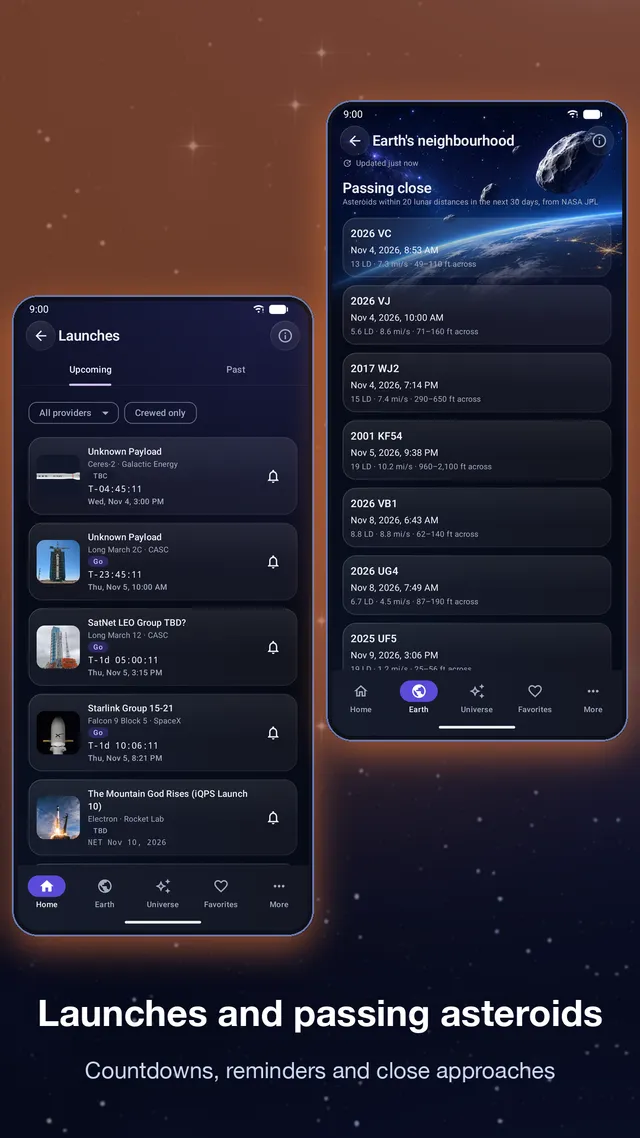
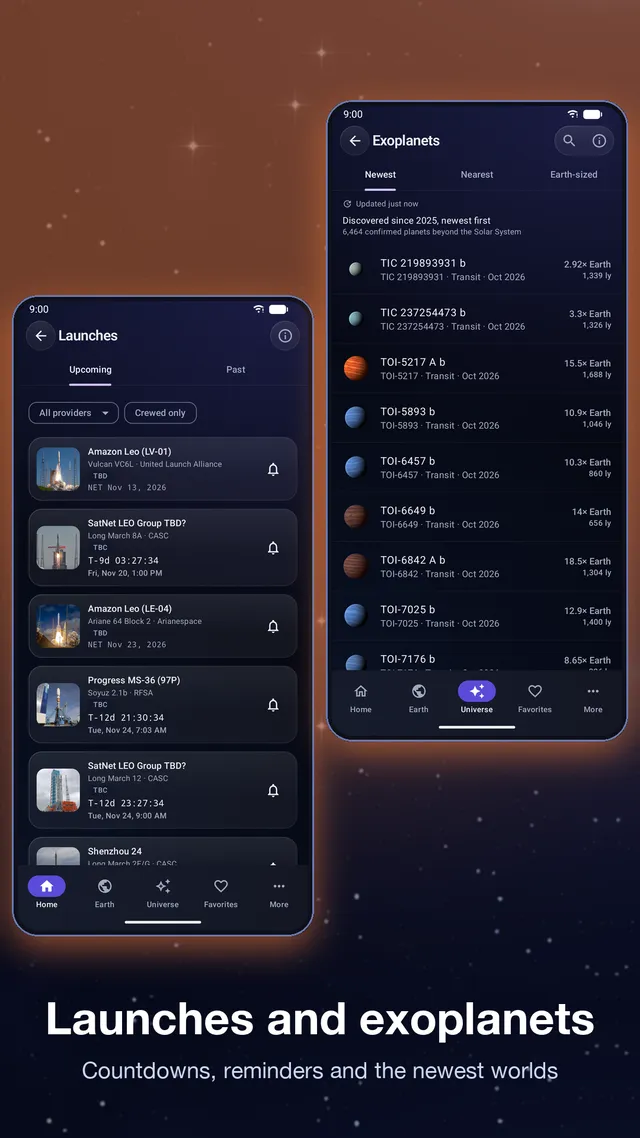
Bring the site up to 1.4: new intro, Live Earth first, release notes 1.3–1.4
The home page opens with the Play listing's new intro, puts the Live Earth
cards right after the sky ones, adds the 1.4 sky map, storm and earthquake
features, and says how ads work now (a few days in, removable in Settings).
Release notes gain 1.3.0, 1.3.1 and 1.4.0, and the launches screenshot pairs
Launches with Exoplanets as on Play.

diff --git a/index.html b/index.html
@@ -3,8 +3,8 @@
 <head>
 <meta charset="utf-8">
 <meta name="viewport" content="width=device-width, initial-scale=1">
-<title>SpaceTerra: Star Map, ISS Tracker &amp; Live Earth for Android</title>
-<meta name="description" content="SpaceTerra is a free Android app: AR star map, ISS tracker, stargazing forecast, rocket launches, aurora forecast and live earthquakes, wildfires and storms on a 3D globe. Works offline.">
+<title>SpaceTerra: AR Sky Map &amp; Live 3D Earth for Android</title>
+<meta name="description" content="SpaceTerra is a free Android app: an advanced AR sky map, a live 3D Earth with earthquakes, wildfires and storms, the aurora, tonight's stargazing forecast, rocket launches, the ISS and exoplanets. Works offline.">
 <link rel="canonical" href="https://radustavila.github.io/SpaceTerra-Web/">
 <meta name="theme-color" content="#070914">
 <meta name="robots" content="index, follow">
@@ -12,8 +12,8 @@
 <meta property="og:type" content="website">
 <meta property="og:site_name" content="SpaceTerra">
 <meta property="og:url" content="https://radustavila.github.io/SpaceTerra-Web/">
-<meta property="og:title" content="SpaceTerra: Star Map, ISS Tracker &amp; Live Earth for Android">
-<meta property="og:description" content="SpaceTerra is a free Android app: AR star map, ISS tracker, stargazing forecast, rocket launches, aurora forecast and live earthquakes, wildfires and storms on a 3D globe. Works offline.">
+<meta property="og:title" content="SpaceTerra: AR Sky Map &amp; Live 3D Earth for Android">
+<meta property="og:description" content="SpaceTerra is a free Android app: an advanced AR sky map, a live 3D Earth with earthquakes, wildfires and storms, the aurora, tonight's stargazing forecast, rocket launches, the ISS and exoplanets. Works offline.">
 <meta property="og:image" content="https://radustavila.github.io/SpaceTerra-Web/assets/img/spaceterra-icon-512.png">
 <meta name="twitter:card" content="summary">
 
@@ -45,15 +45,16 @@
   "name": "SpaceTerra: Star Map & Earth",
   "operatingSystem": "Android 8.0 or later",
   "applicationCategory": "EducationalApplication",
-  "description": "Star map, ISS tracker, stargazing forecast, rocket launches and live Earth events in one offline-first Android app.",
+  "description": "An advanced AR sky map and a live 3D Earth, with stargazing, the aurora, launches, the ISS and exoplanets, in one offline-first Android app.",
   "featureList": [
-    "AR sky map that names stars, planets, constellations, galaxies and nebulae",
+    "AR sky map that names stars, planets, constellations, galaxies and nebulae, at any date",
     "Sky tonight, stargazing forecast and astronomy calendar with reminders",
-    "Live ISS position, visible passes and other satellites",
-    "Astronomy picture of the day with the archive back to 1995",
-    "Rocket launches with countdowns and reminders",
-    "3D Earth globe with live earthquakes, wildfires, storms and volcanoes",
+    "3D Earth globe with live earthquakes, wildfires, tropical cyclones and volcanoes",
+    "Earthquake shaking maps, tsunami bulletins and alerts for quakes and storms near you",
     "Aurora forecast, Kp index and space weather",
+    "Rocket launches with countdowns and reminders",
+    "Live ISS position, visible passes and other satellites",
+    "Exoplanets, astronomy picture of the day and space news",
     "Home screen widgets and a daily space quiz",
     "Works offline"
   ],
@@ -145,13 +146,13 @@
             <span><b>Free on Android</b> · works offline · no account needed</span>
           </span>
 
-          <h1>The night sky and our planet, <em>live</em>, in one app.</h1>
+          <h1>The ultimate sky map. The world, <em>live</em>.</h1>
 
           <p class="lede">
-            SpaceTerra is a star map, an ISS tracker and a live Earth map in one. Point
-            your phone at the sky to name stars, planets and constellations, check
-            tonight’s stargazing forecast, then follow earthquakes, wildfires and storms
-            around the world as they happen.
+            Explore the universe and discover our planet with SpaceTerra, your all-in-one
+            space and Earth companion. Name stars, planets and constellations with an
+            advanced AR sky map, follow earthquakes, wildfires and storms on a live 3D
+            Earth, and see where the aurora is visible tonight.
           </p>
 
           <div class="btn-row">
@@ -200,7 +201,7 @@
               <img src="assets/img/screenshots/earthquakes.webp" width="640" height="1138" alt="Live Earth events list of recent earthquakes, searchable by place" loading="lazy">
             </li>
             <li class="showcase-slide">
-              <img src="assets/img/screenshots/launches.webp" width="640" height="1138" alt="Upcoming rocket launches with countdowns, and asteroids passing Earth" loading="lazy">
+              <img src="assets/img/screenshots/launches.webp" width="640" height="1138" alt="Upcoming rocket launches with countdowns, and the newest exoplanets" loading="lazy">
             </li>
             <li class="showcase-slide">
               <img src="assets/img/screenshots/galleries.webp" width="640" height="1138" alt="Universe galleries of Hubble and Webb galaxies, nebulae and black holes" loading="lazy">
@@ -238,7 +239,7 @@
             <svg width="21" height="21" viewBox="0 0 24 24" fill="none" stroke="currentColor" stroke-width="1.8" stroke-linecap="round" stroke-linejoin="round"><path d="M12 3l2.4 5.6 6.1.5-4.6 4 1.4 6-5.3-3.2-5.3 3.2 1.4-6-4.6-4 6.1-.5z"/></svg>
           </div>
           <h3>AR sky map</h3>
-          <p>Point your phone at the sky to name stars, planets, constellations, galaxies and nebulae, with constellation art and a red night mode that keeps your eyes dark-adapted.</p>
+          <p>Point your phone at the sky to name stars, planets, constellations, galaxies and nebulae. Travel to any date, see Jupiter’s moons, the Milky Way and Starlink, and keep your eyes dark-adapted with red night mode.</p>
         </article>
 
         <article class="card reveal">
@@ -259,10 +260,26 @@
 
         <article class="card reveal">
           <div class="card-icon" aria-hidden="true">
-            <svg width="21" height="21" viewBox="0 0 24 24" fill="none" stroke="currentColor" stroke-width="1.8" stroke-linecap="round" stroke-linejoin="round"><rect x="9" y="9" width="6" height="6" rx="1"/><path d="M3 7.5l4.5 4.5L3 16.5M21 7.5L16.5 12l4.5 4.5M7.5 12H9M15 12h1.5"/></svg>
+            <svg width="21" height="21" viewBox="0 0 24 24" fill="none" stroke="currentColor" stroke-width="1.8" stroke-linecap="round" stroke-linejoin="round"><circle cx="12" cy="12" r="8.5"/><path d="M3.5 12h17M12 3.5c2.4 2.4 3.6 5.2 3.6 8.5s-1.2 6.1-3.6 8.5c-2.4-2.4-3.6-5.2-3.6-8.5s1.2-6.1 3.6-8.5z"/></svg>
           </div>
-          <h3>ISS tracker &amp; satellites</h3>
-          <p>The space station's live position on a map, its visible passes over your place with a reminder before each one, who is in space right now, and passes of other satellites you choose.</p>
+          <h3>Live Earth on a 3D globe</h3>
+          <p>Earthquakes, wildfires, storms and volcanoes as they happen, with day and night shading. Tropical cyclones show their forecast track, live infrared and rain, with an optional alert when a storm heads your way.</p>
+        </article>
+
+        <article class="card reveal">
+          <div class="card-icon" aria-hidden="true">
+            <svg width="21" height="21" viewBox="0 0 24 24" fill="none" stroke="currentColor" stroke-width="1.8" stroke-linecap="round" stroke-linejoin="round"><path d="M2.5 12h4l2-5 3.5 10 2.5-7 1.5 2h5.5"/></svg>
+          </div>
+          <h3>Earthquake map &amp; alerts</h3>
+          <p>Earthquakes over 30 days, coloured by your own rules and searchable by place, with shaking maps, tsunami bulletins, plate boundaries, the quakes near you and an optional alert for strong ones.</p>
+        </article>
+
+        <article class="card reveal">
+          <div class="card-icon" aria-hidden="true">
+            <svg width="21" height="21" viewBox="0 0 24 24" fill="none" stroke="currentColor" stroke-width="1.8" stroke-linecap="round" stroke-linejoin="round"><path d="M3 17c3-5 6-7 9-7s6 2 9 7"/><path d="M5 13c2-4 4.5-6 7-6s5 2 7 6"/><path d="M8 20h8"/></svg>
+          </div>
+          <h3>Aurora &amp; space weather</h3>
+          <p>The aurora forecast for the northern and southern lights, the Kp index, solar flares and CMEs, with an alert when the aurora may be visible from your place.</p>
         </article>
 
         <article class="card reveal">
@@ -275,41 +292,26 @@
 
         <article class="card reveal">
           <div class="card-icon" aria-hidden="true">
+            <svg width="21" height="21" viewBox="0 0 24 24" fill="none" stroke="currentColor" stroke-width="1.8" stroke-linecap="round" stroke-linejoin="round"><rect x="9" y="9" width="6" height="6" rx="1"/><path d="M3 7.5l4.5 4.5L3 16.5M21 7.5L16.5 12l4.5 4.5M7.5 12H9M15 12h1.5"/></svg>
+          </div>
+          <h3>ISS tracker &amp; satellites</h3>
+          <p>The space station's live position on a map, its visible passes over your place with a reminder before each one, who is in space right now, and passes of other satellites you choose.</p>
+        </article>
+
+        <article class="card reveal">
+          <div class="card-icon" aria-hidden="true">
             <svg width="21" height="21" viewBox="0 0 24 24" fill="none" stroke="currentColor" stroke-width="1.8" stroke-linecap="round" stroke-linejoin="round"><rect x="3" y="4" width="18" height="16" rx="2.5"/><circle cx="9" cy="9.5" r="1.8"/><path d="M21 15.5l-5-5-9.5 9.5"/></svg>
           </div>
           <h3>A new picture of the universe every day</h3>
           <p>The astronomy picture of the day with the full archive back to 1995, an optional daily wallpaper, and galleries of Hubble and Webb images.</p>
-        </article>
-
-        <article class="card reveal">
-          <div class="card-icon" aria-hidden="true">
-            <svg width="21" height="21" viewBox="0 0 24 24" fill="none" stroke="currentColor" stroke-width="1.8" stroke-linecap="round" stroke-linejoin="round"><circle cx="12" cy="12" r="8.5"/><path d="M3.5 12h17M12 3.5c2.4 2.4 3.6 5.2 3.6 8.5s-1.2 6.1-3.6 8.5c-2.4-2.4-3.6-5.2-3.6-8.5s1.2-6.1 3.6-8.5z"/></svg>
-          </div>
-          <h3>Live Earth on a 3D globe</h3>
-          <p>Earthquakes, wildfires, storms and volcanoes as they happen, with day and night shading, daily photos of the whole Earth from deep space and a satellite map updated daily.</p>
-        </article>
-
-        <article class="card reveal">
-          <div class="card-icon" aria-hidden="true">
-            <svg width="21" height="21" viewBox="0 0 24 24" fill="none" stroke="currentColor" stroke-width="1.8" stroke-linecap="round" stroke-linejoin="round"><path d="M2.5 12h4l2-5 3.5 10 2.5-7 1.5 2h5.5"/></svg>
-          </div>
-          <h3>Earthquake map &amp; alerts</h3>
-          <p>Earthquakes over 30 days, coloured by your own rules and searchable by place, with an optional alert for strong earthquakes near you.</p>
-        </article>
-
-        <article class="card reveal">
-          <div class="card-icon" aria-hidden="true">
-            <svg width="21" height="21" viewBox="0 0 24 24" fill="none" stroke="currentColor" stroke-width="1.8" stroke-linecap="round" stroke-linejoin="round"><path d="M3 17c3-5 6-7 9-7s6 2 9 7"/><path d="M5 13c2-4 4.5-6 7-6s5 2 7 6"/><path d="M8 20h8"/></svg>
-          </div>
-          <h3>Aurora &amp; space weather</h3>
-          <p>The aurora forecast for the northern and southern lights, the Kp index, solar flares and CMEs, with an alert when the aurora may be visible from your place.</p>
         </article>
       </div>
 
       <div class="extras reveal">
         <strong>Also included</strong>
         <span>11 home screen widgets</span>
-        <span>Daily space quiz</span>
+        <span>Daily space quiz with streaks</span>
+        <span>Earth today &amp; satellite map</span>
         <span>Mars rover photos</span>
         <span>Exoplanets</span>
         <span>Asteroids passing Earth</span>
@@ -404,7 +406,7 @@
         <div class="step reveal">
           <span class="num"></span>
           <h3>Get told when it matters</h3>
-          <p>Optional alerts for clear skies, ISS passes, launches, sky events, the aurora and strong earthquakes near you.</p>
+          <p>Optional alerts for clear skies, ISS passes, launches, sky events, the aurora, and strong earthquakes and storms heading your way.</p>
         </div>
       </div>
     </div>
@@ -518,7 +520,7 @@
         <details>
           <summary>Is SpaceTerra free?</summary>
           <div class="faq-a">
-            <p>Yes. SpaceTerra is free on Google Play. From the third time you open the app, some screens show a banner ad, which funds its development.</p>
+            <p>Yes. SpaceTerra is free on Google Play. Once you have used it for a few days, some screens show a small banner ad, which funds its development. You can remove the ads in Settings with a subscription or a one-time purchase.</p>
           </div>
         </details>
         <details>
@@ -572,7 +574,7 @@
             <svg width="17" height="19" viewBox="0 0 24 27" fill="currentColor" aria-hidden="true"><path d="M1.6.6a2 2 0 00-.6 1.4v22.6a2 2 0 00.6 1.4l11.7-11.7L1.6.6zM15 15.9l3.9 3.9-13.4 7.1a1.9 1.9 0 01-1 .1L15 15.9zM19.9 8.3l3.4 1.8c1 .6 1 2.2 0 2.8l-3.4 1.8-3.6-3.2 3.6-3.2zM4.5.4a1.9 1.9 0 011 .2l13.4 7.1L15 11.4 4.5.4z"/></svg>
             Get SpaceTerra on Google Play
           </a>
-          <a class="btn btn--ghost btn--lg" href="release-notes/">What’s new in 1.2</a>
+          <a class="btn btn--ghost btn--lg" href="release-notes/">What’s new in 1.4</a>
         </div>
       </div>
     </div>

diff --git a/release-notes/index.html b/release-notes/index.html
@@ -115,10 +115,49 @@
 
         <section id="y2026">
           <h2>2026</h2>
+          <article class="release" id="v1-4-0">
+            <h3>
+              <a href="#v1-4-0">Version 1.4.0</a>
+              <span class="release-badge">Latest</span>
+              <time datetime="2026-11-09">November 9, 2026</time>
+            </h3>
+            <ul>
+              <li>Sky map: planets drawn as little worlds you can resize, any date from 1900 to 2100, grids and field-of-view circles, meteor radiants, Jupiter’s moons, the Milky Way, bright satellites and Starlink, fuller object cards, and sharing</li>
+              <li>Compass: line the map up without the camera, with tips to calibrate; the fix is kept for 6 hours</li>
+              <li>Storms: tropical cyclones with forecast tracks, live infrared and rain, and an opt-in storm alert</li>
+              <li>Earthquakes: shaking maps, tsunami bulletins, plate boundaries, quakes near you and list settings</li>
+              <li>More space news sources</li>
+              <li>Tidier sheets on small phones</li>
+              <li>Bug fixes</li>
+            </ul>
+          </article>
+          <article class="release" id="v1-3-1">
+            <h3>
+              <a href="#v1-3-1">Version 1.3.1</a>
+              <time datetime="2026-11-07">November 7, 2026</time>
+            </h3>
+            <ul>
+              <li>Bug fixes and improvements</li>
+            </ul>
+          </article>
+          <article class="release" id="v1-3-0">
+            <h3>
+              <a href="#v1-3-0">Version 1.3.0</a>
+              <time datetime="2026-11-06">November 6, 2026</time>
+            </h3>
+            <ul>
+              <li>Daily quiz: 60 new questions and new kinds of questions from the app’s live data</li>
+              <li>Streak freezes, a calendar of past days and your accuracy by topic</li>
+              <li>Review your answers, practise your mistakes, and explore each subject in the app</li>
+              <li>Share your score as an image; quiz reminder at the time you choose</li>
+              <li>Widgets sized to what they show; Next launch lists the launches after it</li>
+              <li>Small phones: tighter text and spacing</li>
+              <li>Fixes and small improvements</li>
+            </ul>
+          </article>
           <article class="release" id="v1-2-0">
             <h3>
               <a href="#v1-2-0">Version 1.2.0</a>
-              <span class="release-badge">Latest</span>
               <time datetime="2026-11-05">November 5, 2026</time>
             </h3>
             <ul>
